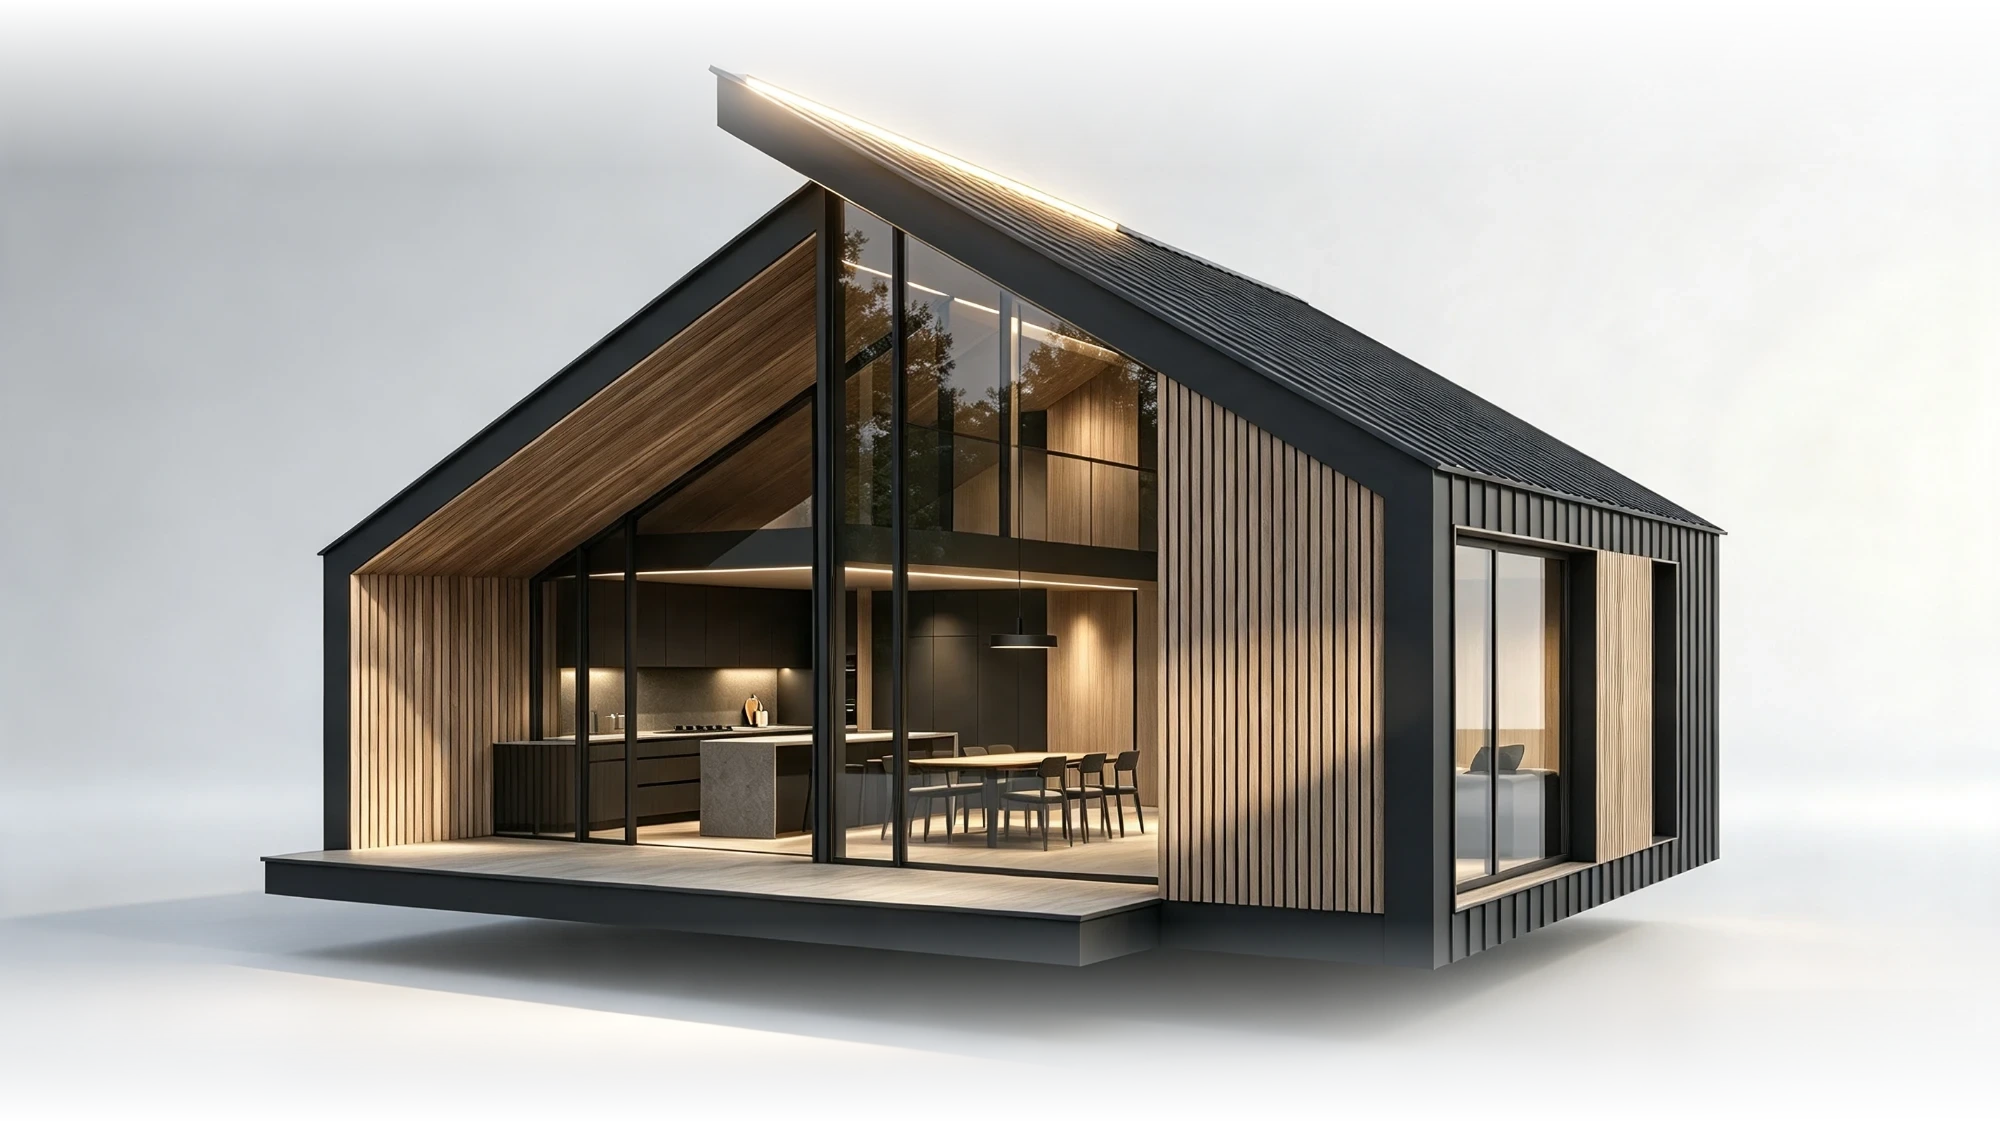
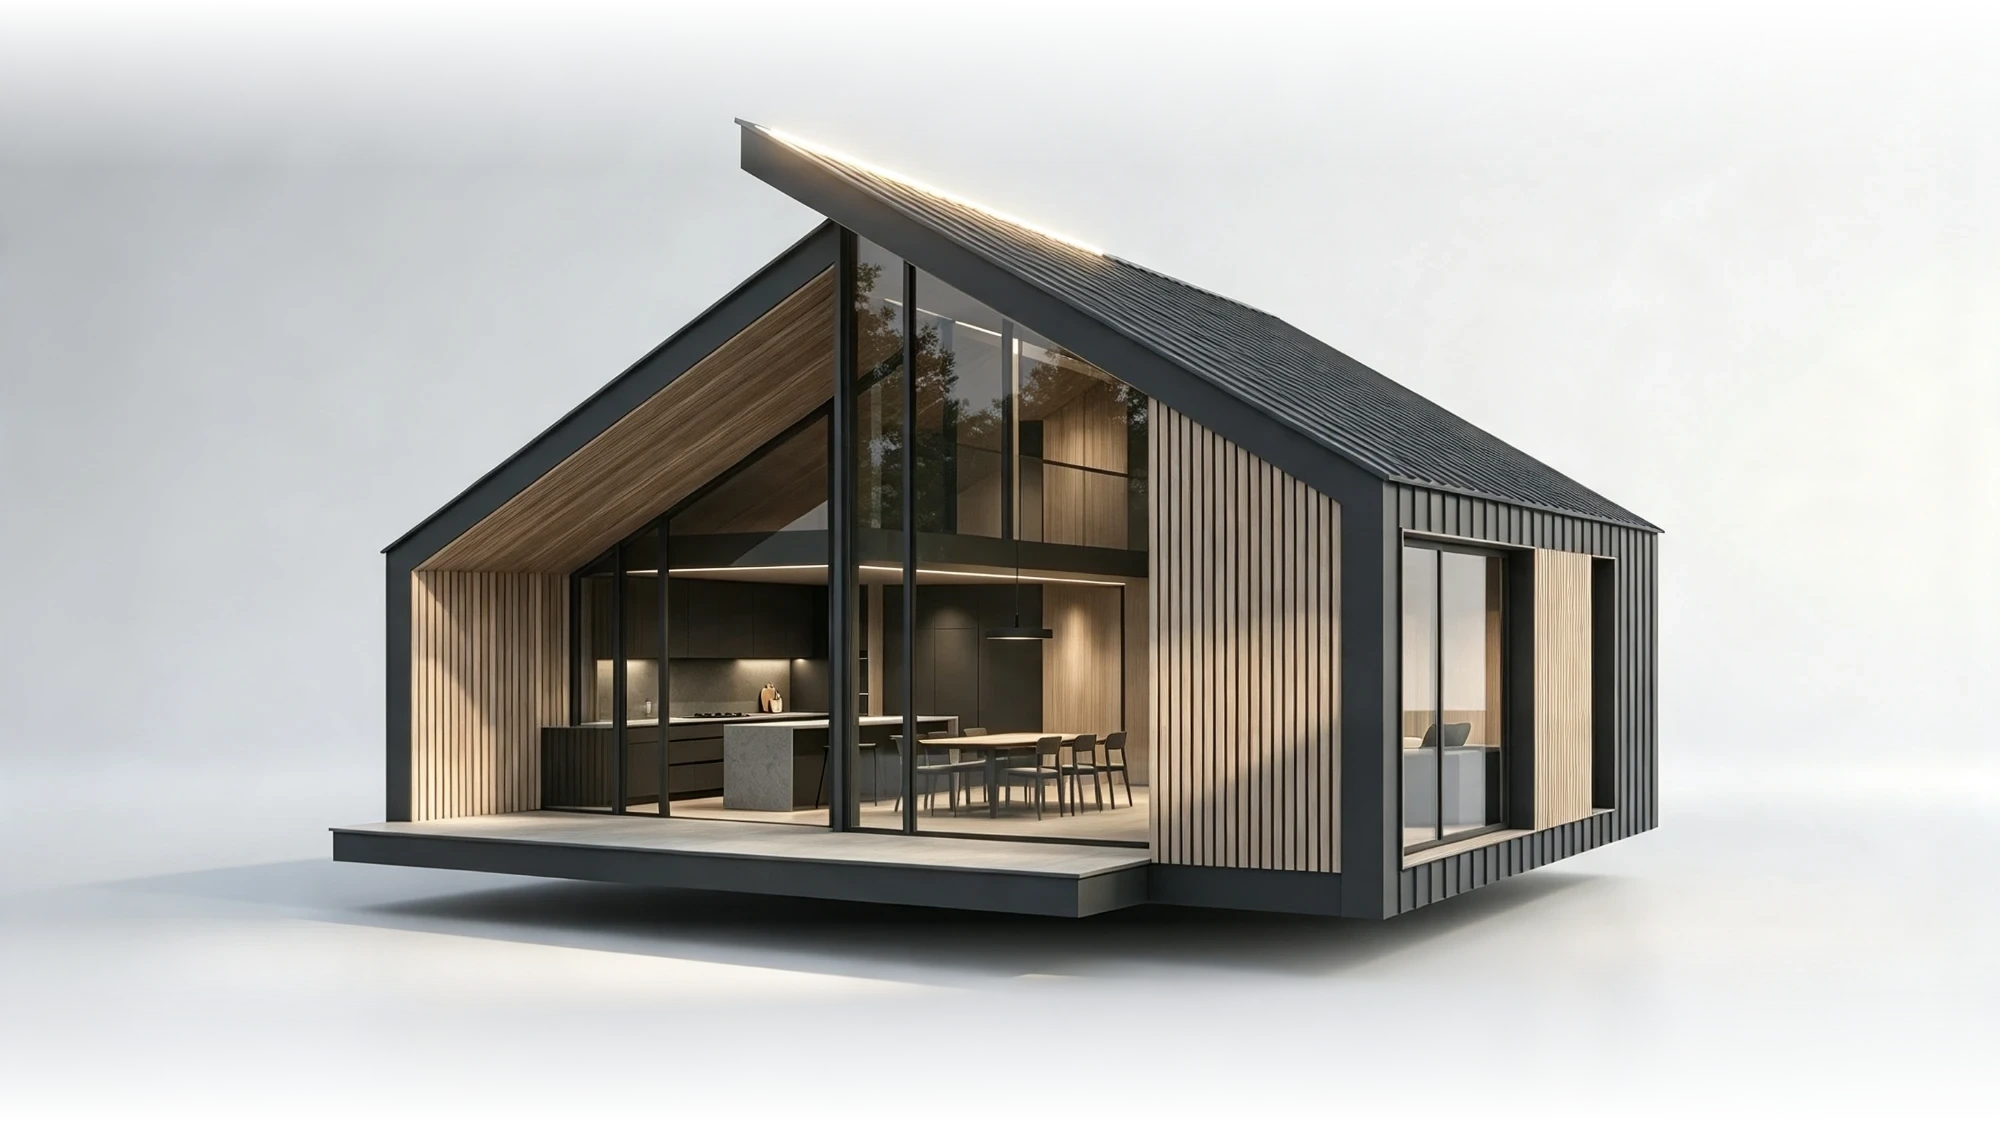
Swap Performance image for the new daytime render
The "zoom" complaints were actually about the image itself — replaced
with the new daytime composition (watermark removed via the same
edge-interpolated inpaint, edges feathered as before) and dropped the
scale/position overrides that were tuned for the old render.

Claude-Session: https://claude.ai/code/session_01HdA8kPg5cYQYnk4DC1KEZk

diff --git a/caldo/style.css b/caldo/style.css
@@ -67,7 +67,7 @@ img{display:block;max-width:100%;}
    for object-position to shift within. */
 @media (min-width:861px){
   #photos img[data-photo="engineering-layers"]{top:7%;}
-  #photos img[data-photo="performance-house"]{top:0;transform:scale(0.9);}
+  #photos img[data-photo="performance-house"]{top:0;}
 }
 @keyframes kenburns{
   0%{transform:scale(1.0);}
